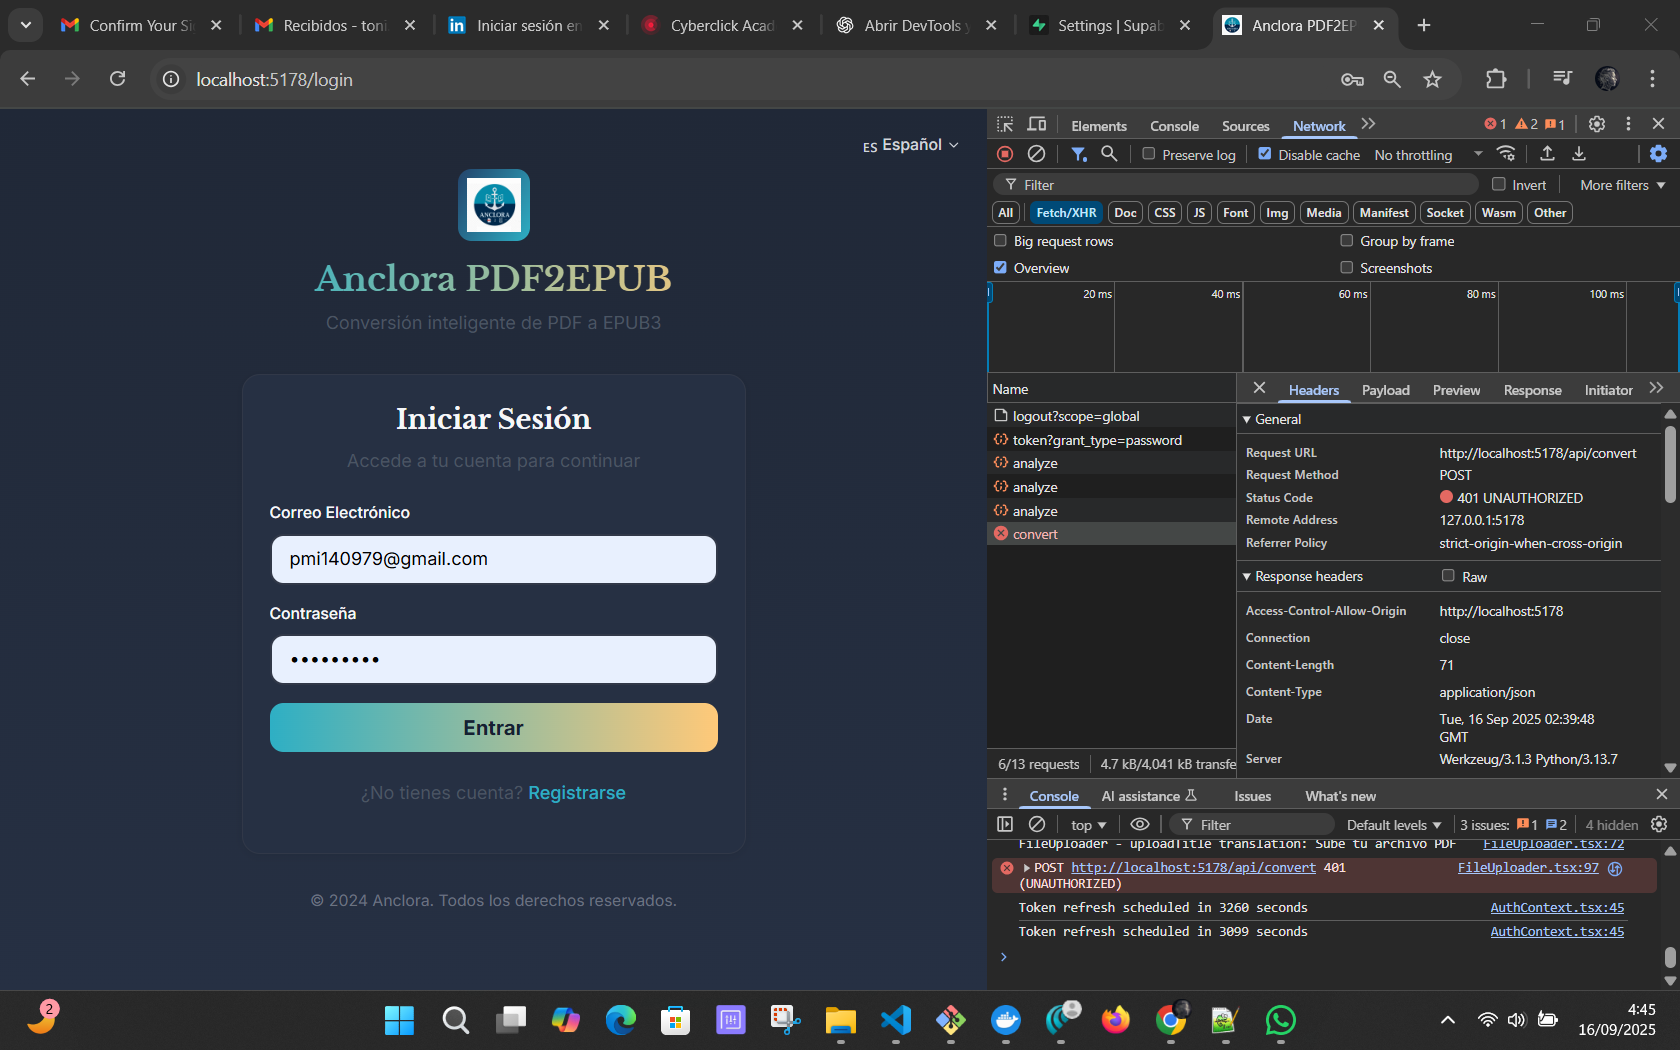
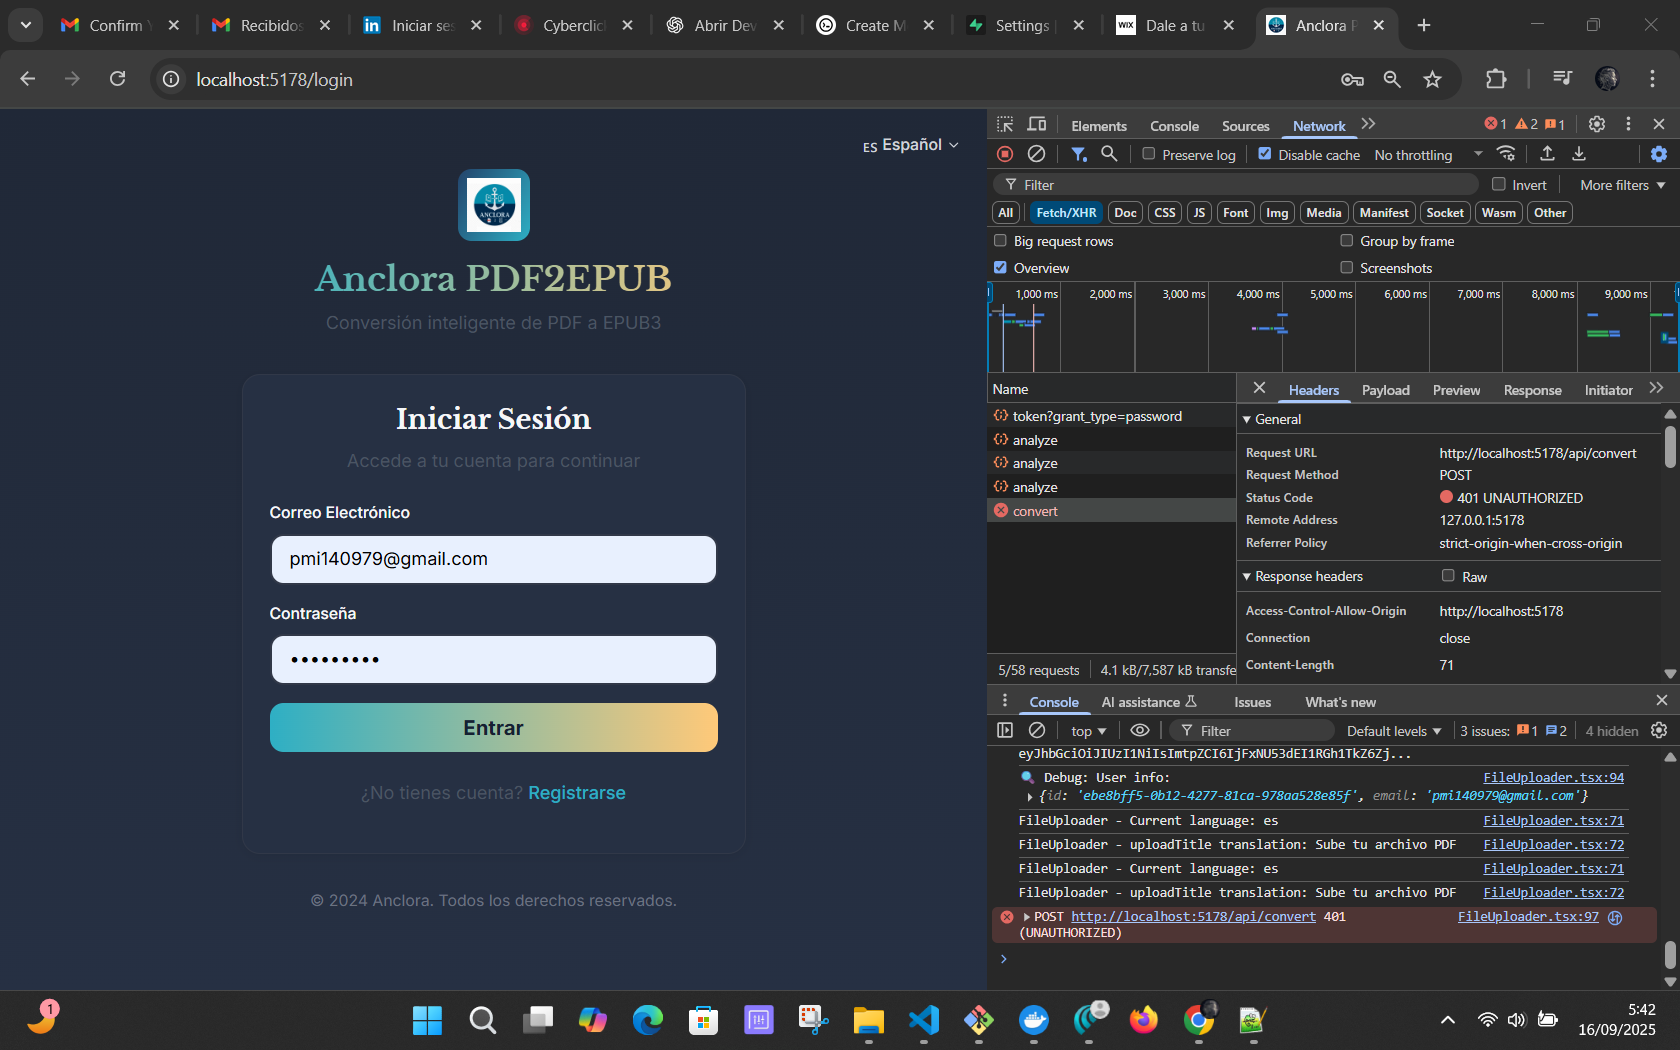
cambios api

diff --git a/frontend/src/components/FileUploader.tsx b/frontend/src/components/FileUploader.tsx
@@ -3,6 +3,7 @@ import { useDropzone } from 'react-dropzone';
 import { useTranslation } from 'react-i18next';
 import { useNavigate } from 'react-router-dom';
 import { useAuth } from '../AuthContext';
+import { apiPost } from '../lib/apiClient';
 import Container from './Container';
 import Toast from './Toast';
 
@@ -88,30 +89,9 @@ const FileUploader: React.FC<FileUploaderProps> = ({ onFileSelected, onConversio
       formData.append('file', file);
       formData.append('pipeline_id', engineName);
 
-      // Debug: Log token information
-      console.log('🔍 Debug: Token available:', !!token);
-      console.log('🔍 Debug: Token preview:', token ? token.substring(0, 50) + '...' : 'NO TOKEN');
-      console.log('🔍 Debug: User info:', user ? { id: user.id, email: user.email } : 'NO USER');
-      
-      // Hacer la llamada a la API de conversión (via proxy)
-      const response = await fetch('/api/convert', {
-        method: 'POST',
-        body: formData,
-        headers: {
-          Authorization: `Bearer ${token}`
-        }
-      });
-
-      if (response.status === 401) {
-        // Token expirado, redirigir al login
-        navigate('/login');
-        return;
-      }
-
-      const data = await response.json();
-      if (!response.ok) {
-        throw new Error(data.error || t('fileUploader.conversionError'));
-      }
+      // Use the apiClient utility to make the request
+      console.log('Making API request to convert with token:', token ? 'Present' : 'Missing');
+      const data = await apiPost('convert', formData, token);
 
       // Conversión iniciada exitosamente
       const successMessage = `✅ ${t('fileUploader.conversionStarted')}\n\n` +
@@ -132,6 +112,14 @@ const FileUploader: React.FC<FileUploaderProps> = ({ onFileSelected, onConversio
 
     } catch (error: any) {
       console.error('Error en conversión:', error);
+      
+      if (error.message === 'UNAUTHORIZED') {
+        // Token expired, redirect to login
+        await savePendingFile(file);
+        navigate('/login');
+        return;
+      }
+      
       setError(error.message);
 
       const errorMessage = `❌ ${t('fileUploader.conversionError')}\n\n${error.message}`;
@@ -190,16 +178,9 @@ const FileUploader: React.FC<FileUploaderProps> = ({ onFileSelected, onConversio
       console.log('Debug - user:', !!user, 'token:', !!token, 'session:', !!session);
       console.log('Debug - token preview:', token ? token.substring(0, 20) + '...' : 'null');
 
-      const analyzeRes = await fetch('/api/analyze', {
-        method: 'POST',
-        body: formData,
-        headers: token ? { Authorization: `Bearer ${token}` } : undefined,
-      });
-
-      const analyzeData = await analyzeRes.json();
-      if (!analyzeRes.ok) {
-        throw new Error(analyzeData.error || t('fileUploader.analyzeError'));
-      }
+      // Use the apiClient utility to make the request
+      console.log('Making API request to analyze with token:', token ? 'Present' : 'Missing');
+      const analyzeData = await apiPost('analyze', formData, token);
 
       // 2. Mostrar análisis y recomendación
       const engineName = analyzeData.recommended || analyzeData.pipeline_id || 'balanced';
@@ -232,47 +213,33 @@ const FileUploader: React.FC<FileUploaderProps> = ({ onFileSelected, onConversio
         await startActualConversion(engineName);
       }
 
-    } catch (err: any) {
-      setError(err.message);
-      console.error('Error en análisis rápido:', err);
+    } catch (error: any) {
+      console.error('Error en análisis:', error);
+      
+      if (error.message === 'UNAUTHORIZED') {
+        // Token expired, redirect to login
+        await savePendingFile(fileToUse);
+        navigate('/login');
+        return;
+      }
+      
+      setError(error.message);
+      setToast({
+        title: 'Error',
+        message: `❌ ${t('fileUploader.analyzeError')}\n\n${error.message}`,
+        variant: 'error'
+      });
     } finally {
       setIsConverting(false);
     }
   };
 
   const onDrop = useCallback(async (acceptedFiles: File[]) => {
-    setError(null);
-    setIsUploading(true);
-
-    // Verificar si hay algún archivo
-    if (acceptedFiles.length === 0) {
-      setIsUploading(false);
-      return;
-    }
+    if (acceptedFiles.length === 0) return;
 
     const selectedFile = acceptedFiles[0];
-
-    // Verificar que sea un PDF
-    if (selectedFile.type !== 'application/pdf') {
-      setError(t('fileUploader.supportedFormats'));
-      setIsUploading(false);
-      return;
-    }
-
-    // Verificar tamaño (máximo 25MB - sincronizado con backend)
-    const maxSizeMB = 25;
-    const maxSizeBytes = maxSizeMB * 1024 * 1024;
-    if (selectedFile.size > maxSizeBytes) {
-      setError(t('fileUploader.maxSize'));
-      setIsUploading(false);
-      return;
-    }
-
-    // Simular un pequeño delay para mostrar el loading
-    await new Promise(resolve => setTimeout(resolve, 500));
-
     setFile(selectedFile);
-    setIsUploading(false);
+    setError(null);
 
     if (onFileSelected) {
       onFileSelected(selectedFile);
@@ -482,5 +449,3 @@ const FileUploader: React.FC<FileUploaderProps> = ({ onFileSelected, onConversio
 };
 
 export default FileUploader;
-
-

diff --git a/frontend/src/components/ConversionPanel.tsx b/frontend/src/components/ConversionPanel.tsx
@@ -44,10 +44,11 @@ const ConversionPanel: React.FC<ConversionPanelProps> = ({ file }) => {
         setIsAnalyzing(false);
         return;
       }
-      const data = await res.json();
-      if (!res.ok) {
-        throw new Error(data.error || 'Error al analizar');
-      }
+      
+      if (error.message === 'UNAUTHORIZED') {
+          navigate('/login');
+          return;
+        }
       setPipelines(data.pipelines || []);
     } catch (err: any) {
       setError(err.message);
@@ -88,10 +89,11 @@ const ConversionPanel: React.FC<ConversionPanelProps> = ({ file }) => {
         setIsConverting(false);
         return;
       }
-      const data = await res.json();
-      if (!res.ok) {
-        throw new Error(data.error || t('conversionPanel.conversionError'));
-      }
+      
+      if (error.message === 'UNAUTHORIZED') {
+          navigate('/login');
+          return;
+        }
       setTaskId(data.task_id);
       pollStatus(data.task_id);
     } catch (err: any) {
@@ -113,7 +115,7 @@ const ConversionPanel: React.FC<ConversionPanelProps> = ({ file }) => {
           setIsConverting(false);
           return;
         }
-        const data = await res.json();
+        
         setStatus(data.status);
         if (data.status === 'PROGRESS') {
           if (typeof data.progress === 'number') {
@@ -206,3 +208,4 @@ const ConversionPanel: React.FC<ConversionPanelProps> = ({ file }) => {
 };
 
 export default ConversionPanel;
+

diff --git a/frontend/src/components/PipelineWizard.tsx b/frontend/src/components/PipelineWizard.tsx
@@ -47,10 +47,11 @@ const PipelineWizard: React.FC<PipelineWizardProps> = ({ file }) => {
         setIsAnalyzing(false);
         return;
       }
-      const data = await res.json();
-      if (!res.ok) {
-        throw new Error(data.error || 'Error al analizar');
-      }
+      
+      if (error.message === 'UNAUTHORIZED') {
+          navigate('/login');
+          return;
+        }
       setPipelines(data.pipelines || []);
       setStep('selection');
     } catch (err: any) {
@@ -91,10 +92,11 @@ const PipelineWizard: React.FC<PipelineWizardProps> = ({ file }) => {
         setIsConverting(false);
         return;
       }
-      const data = await res.json();
-      if (!res.ok) {
-        throw new Error(data.error || 'Error en la conversión');
-      }
+      
+      if (error.message === 'UNAUTHORIZED') {
+          navigate('/login');
+          return;
+        }
       pollStatus(data.task_id);
     } catch (err: any) {
       setError(err.message);
@@ -115,7 +117,7 @@ const PipelineWizard: React.FC<PipelineWizardProps> = ({ file }) => {
           setIsConverting(false);
           return;
         }
-        const data = await res.json();
+        
         setStatus(data.status);
         if (data.status === 'SUCCESS') {
           clearInterval(interval);
@@ -194,3 +196,4 @@ const PipelineWizard: React.FC<PipelineWizardProps> = ({ file }) => {
 };
 
 export default PipelineWizard;
+

diff --git a/frontend/src/components/HistoryView.tsx b/frontend/src/components/HistoryView.tsx
@@ -1,4 +1,5 @@
 import React, { useEffect, useState } from 'react';
+import { apiGet } from '../lib/apiClient';
 import { useAuth } from '../AuthContext';
 
 interface ConversionItem {
@@ -21,9 +22,10 @@ const HistoryView: React.FC = () => {
         const res = await fetch('/api/history', {
           headers: token ? { Authorization: `Bearer ${token}` } : undefined,
         });
-        const data = await res.json();
-        if (!res.ok) {
-          throw new Error(data.error || 'Error al obtener historial');
+        
+        if (error.message === 'UNAUTHORIZED') {
+          navigate('/login');
+          return;
         }
         setHistory(data);
       } catch (err: any) {
@@ -109,3 +111,4 @@ const HistoryView: React.FC = () => {
 };
 
 export default HistoryView;
+

diff --git a/frontend/src/components/PreviewModal.tsx b/frontend/src/components/PreviewModal.tsx
@@ -28,7 +28,7 @@ const PreviewModal: React.FC<PreviewModalProps> = ({ taskId, onClose }) => {
         headers: token ? { Authorization: `Bearer ${token}` } : undefined,
       });
       if (res.ok) {
-        const data = await res.json();
+        
         setPages(data.pages || []);
       }
     };
@@ -88,3 +88,4 @@ const PreviewModal: React.FC<PreviewModalProps> = ({ taskId, onClose }) => {
 };
 
 export default PreviewModal;
+

diff --git a/frontend/vite.config.js b/frontend/vite.config.js
@@ -20,7 +20,9 @@ export default ({ mode }) => {
           target: 'http://localhost:5175',
           changeOrigin: true,
           secure: false,
+          rewrite: (path) => path
         }
+      }
       }
     },
     preview: {
